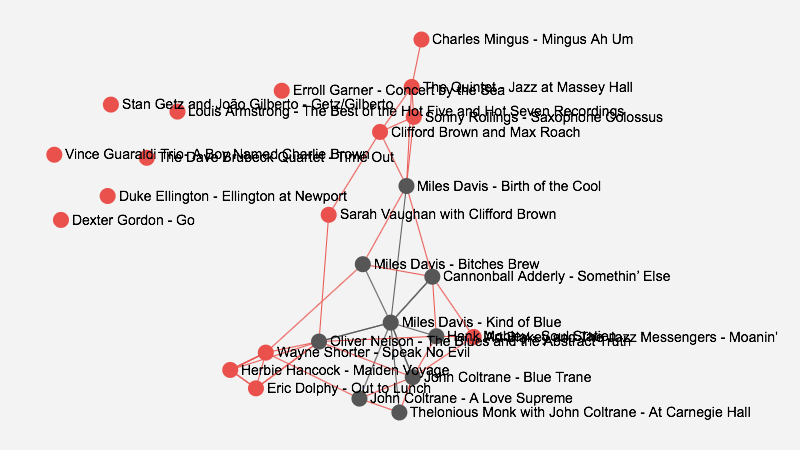
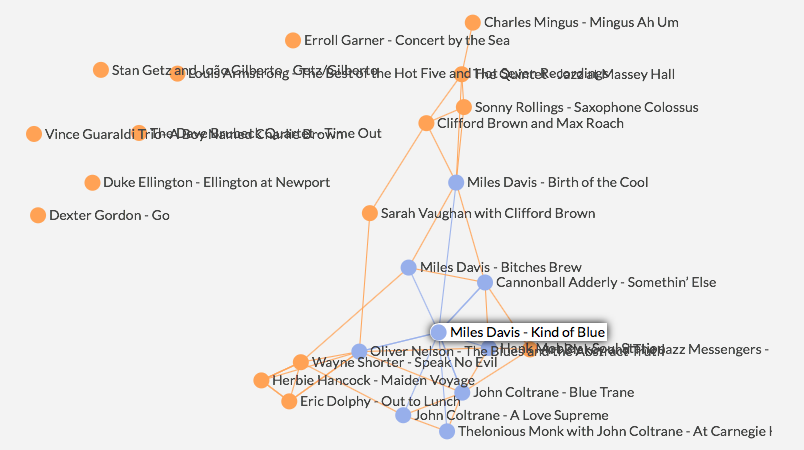
minor updates

Changed region(s): [[0.0312, 0.0311, 0.9688, 0.9956]]

diff --git a/text/ch4/04-graphs.md b/text/ch4/04-graphs.md
@@ -24,6 +24,8 @@ The sigmajs library does not depend on any other JavaScript libraries, so we don
 
 As you can see, we’ve set aside a `<div>` to hold our graph We’ve also included the Javascript library as the last part of the `<body>` element, as that provides the best browser performance.
 
+> Note: In most of the examples in this book, we included steps you can take to make your visualizations compatible with older web browsers such as Internet Explorer 8. In this case, however, those approaches degrade performance so severely that they are rarely workable. To view the network graph visualization, your users will need a modern browser.
+
 #### Step 2: Prepare the Data
 
 Our data on the top 25 jazz albums looks like the following snippet. We're only showing the first couple of albums below, but you can see the full list in the book’s [source code](https://github.com/sathomas/jsdataviz).
@@ -229,7 +231,7 @@ s.bind('clickNode', function(ev) {
 
 Now we have a fully interactive network graph. Our users can pan, zoom, click, and tap to their heart’s content.
 
-<figure id="graph-4" style="width:800px;height:800px"></figure>
+<figure id="graph-4" style="width:750px;height:750px"></figure>
 
 <script>
 contentLoaded.done(function() {
@@ -563,7 +565,7 @@ for (var srcIdx=0; srcIdx<albums.length; srcIdx++) {
 }
 s2.refresh();
 
-var s3 = new sigma("graph-3");
+s3 = new sigma("graph-3");
 s3.settings({
 	defaultLabelColor: '#444444',
   defaultNodeColor: '#ffa44f',
@@ -596,8 +598,8 @@ for (var srcIdx=0; srcIdx<albums.length; srcIdx++) {
     }
   }
 }
-s3.startForceAtlas2();
-setTimeout(function() {s3.stopForceAtlas2();}, 2000);
+setTimeout(function() {s3.startForceAtlas2();}, 5000);
+setTimeout(function() {s3.stopForceAtlas2();},  7000);
 
 var s4 = new sigma("graph-4");
 s4.settings({
@@ -632,22 +634,30 @@ for (var srcIdx=0; srcIdx<albums.length; srcIdx++) {
     }
   }
 }
-s4.startForceAtlas2();
-setTimeout(function() {s4.stopForceAtlas2();}, 2000);
+setTimeout(function() {s4.startForceAtlas2();}, 8000);
+setTimeout(function() {s4.stopForceAtlas2();},  9500);
+var lastClicked = null;
 s4.bind('clickNode', function(ev) {
   var nodeIdx = ev.data.node.id;
-  var neighbors = [];
+  var highlight = [];
+  if (lastClicked !== ev.data.node.id) {
+    lastClicked = ev.data.node.id;
+    highlight.push(ev.data.node.id);
+  } else {
+    lastClicked = null;
+  }
   s4.graph.edges().forEach(function(edge) {
-    if ((edge.target === nodeIdx) || (edge.source === nodeIdx)) {
+    if (highlight.length && 
+        ((edge.target === nodeIdx) || (edge.source === nodeIdx)) ) {
       edge.color = '#97aceb';
-      neighbors.push(edge.target);
-      neighbors.push(edge.source);
-    } else {
+      highlight.push(edge.target);
+      highlight.push(edge.source);
+  } else {
       edge.color = '#ffa44f';
     }
   });
   s4.graph.nodes().forEach(function(node) {
-    if (neighbors.some(function(n){return n === node.id})) {
+    if (highlight.length && highlight.some(function(n){return n === node.id})) {
       node.color = '#97aceb';
     } else {
       node.color = '#ffa44f';
